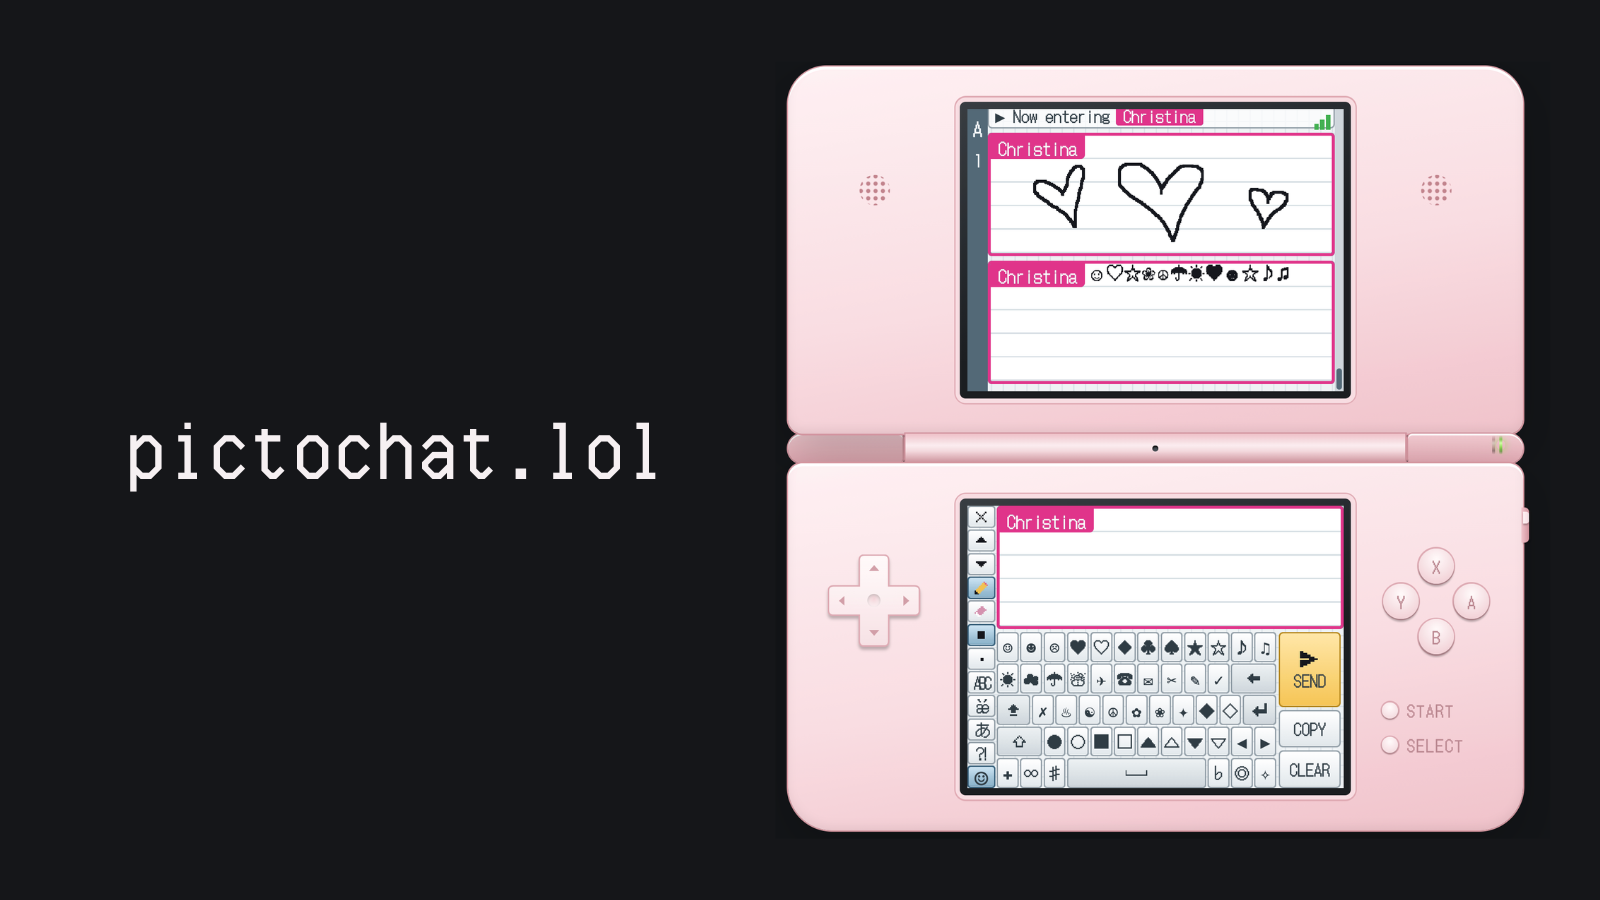
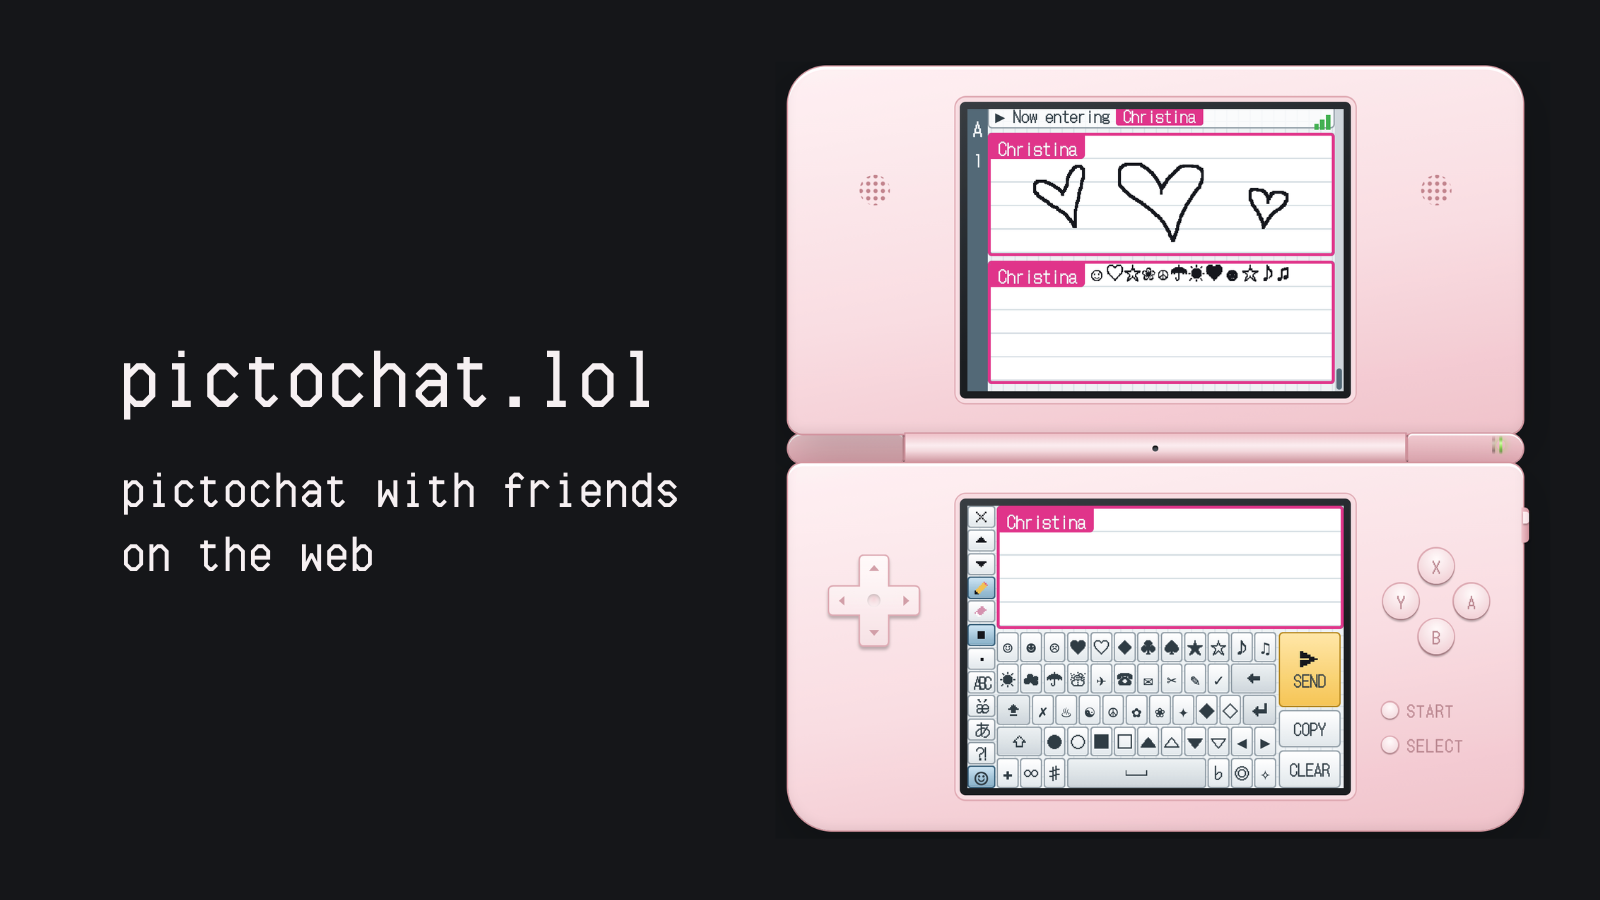
Use OG image with tagline

Changed region(s): [[0.0625, 0.3733, 0.4375, 0.56], [0.0625, 0.5911, 0.25, 0.6533]]

diff --git a/public/index.html b/public/index.html
@@ -13,14 +13,14 @@
   <meta property="og:site_name" content="PictoChat">
   <meta property="og:title" content="PictoChat">
   <meta property="og:description" content="PictoChat with friends on the web.">
-  <meta property="og:image" content="https://pictochat.lol/og.png?v=2">
+  <meta property="og:image" content="https://pictochat.lol/og.png?v=3">
   <meta property="og:image:width" content="1600">
   <meta property="og:image:height" content="900">
-  <meta property="og:image:alt" content="A pink DS Lite running PictoChat, next to the words pictochat.lol">
+  <meta property="og:image:alt" content="A pink DS Lite running PictoChat, next to the words pictochat.lol: pictochat with friends on the web">
   <meta name="twitter:card" content="summary_large_image">
   <meta name="twitter:title" content="PictoChat">
   <meta name="twitter:description" content="PictoChat with friends on the web.">
-  <meta name="twitter:image" content="https://pictochat.lol/og.png?v=2">
+  <meta name="twitter:image" content="https://pictochat.lol/og.png?v=3">
   <link rel="icon" href="/favicon.svg" type="image/svg+xml">
   <link rel="preconnect" href="https://fonts.googleapis.com">
   <link rel="preconnect" href="https://fonts.gstatic.com" crossorigin>
